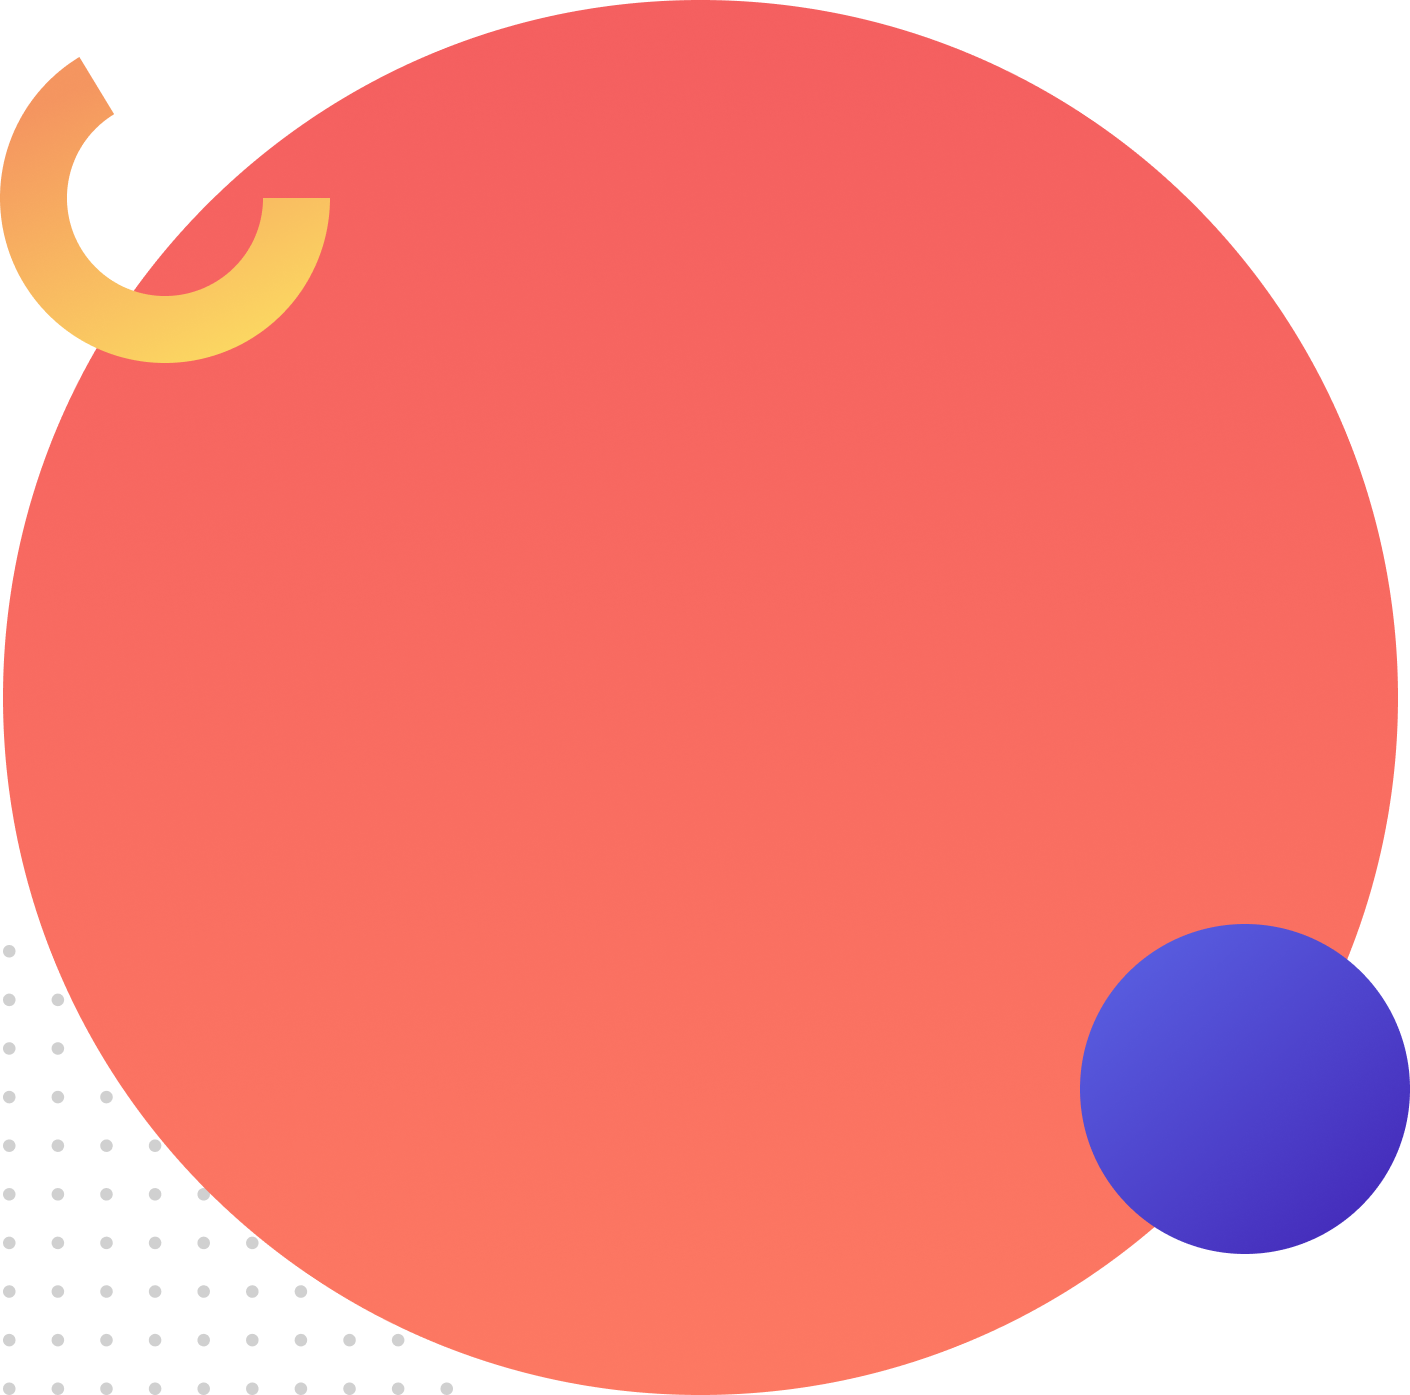
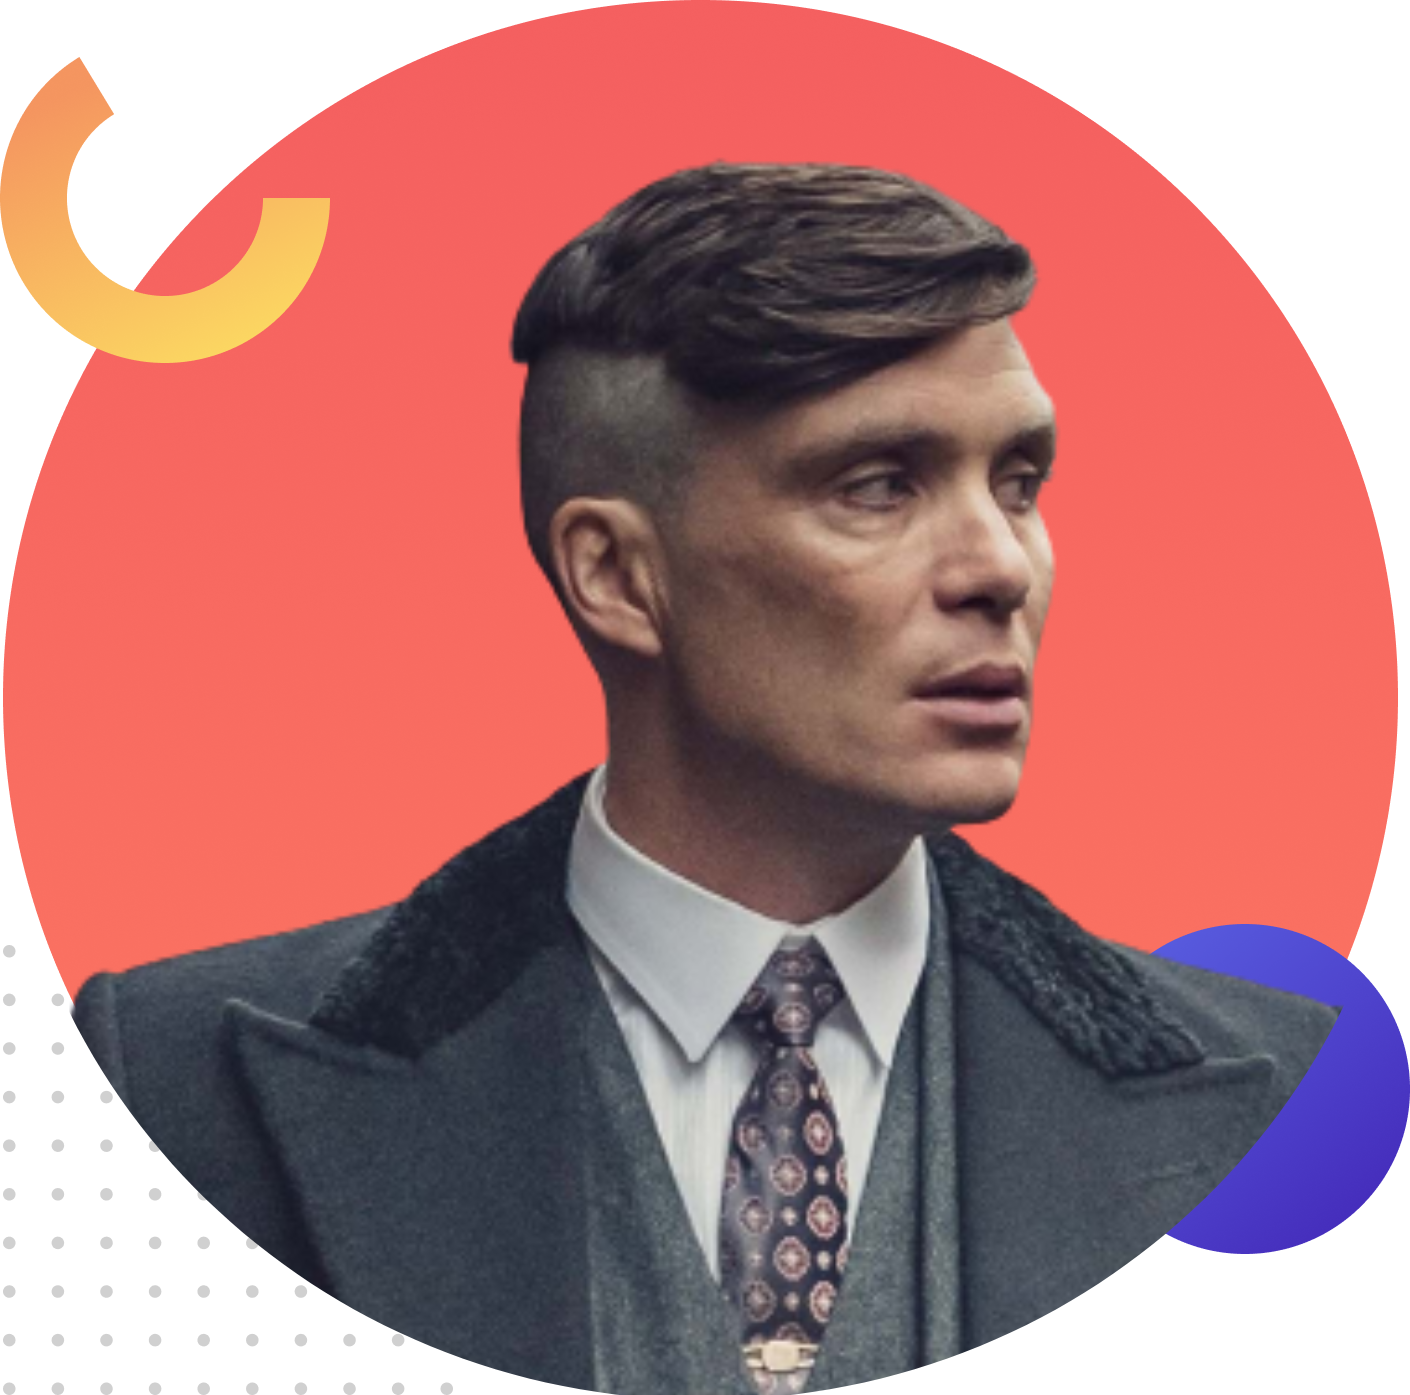
added

diff --git a/index.html b/index.html
@@ -34,7 +34,7 @@
                             <button type="btn">Hire Me</button>
                         </div>
                         <div class="box-two">
-                            <img src="img/do not use this pic.png" alt="">
+                            <img src="img/Group 33080.png" alt="">
                         </div>
                     </div>
                 </div>
@@ -45,7 +45,7 @@
                 <div class="main-div2">
                     <div class="two-box">
                         <div class="box-two im">
-                            <img src="img/do not use this pic.png" alt="" >
+                            <img src="img/Group 33082.png" alt="" >
                         </div>
                         <div class="box-one hi">
                             <h1>ABOUT</h1>

diff --git a/style.css b/style.css
@@ -1,3 +1,4 @@
+@import url('https://fonts.googleapis.com/css2?family=Arvo:ital,wght@0,400;0,700;1,400;1,700&family=Open+Sans:ital,wght@0,300;0,400;0,500;0,600;0,700;0,800;1,300;1,400;1,500;1,600;1,700;1,800&family=Raleway:ital,wght@0,300;0,400;0,500;0,700;0,900;1,300;1,400&family=Roboto:ital,wght@0,100;0,300;0,400;0,500;0,700;0,900;1,100;1,300;1,400;1,500;1,700;1,900&display=swap');
 *{
     margin: 0;
     padding: 0px;
@@ -5,6 +6,7 @@
 body{
     scroll-behavior: smooth;
     background-color: #FFFFFF;
+    font-family: 'Roboto', sans-serif;
 }
 section{
   margin: 20px 0px;
@@ -64,8 +66,8 @@ button{
     padding: 10px;
 }
 .box-two img{
-    width: 70%;
-    margin-top:-90px;
+    width: 50%;
+    margin-top:0px;
     padding-left: 20px;
 }
 .hi{
